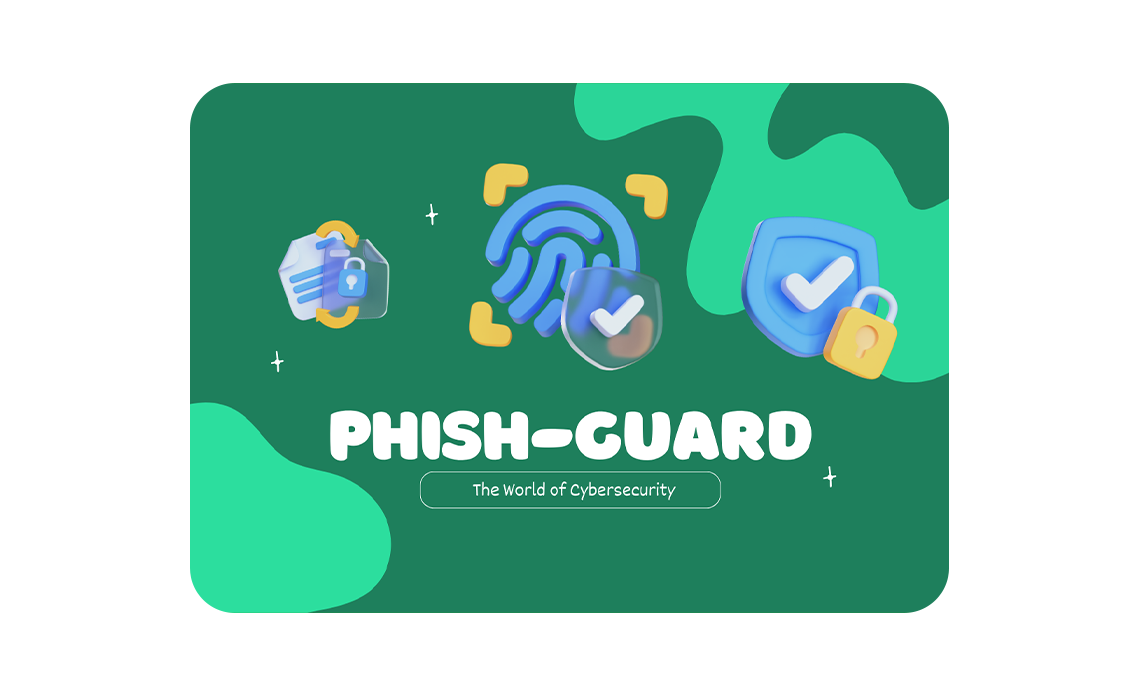
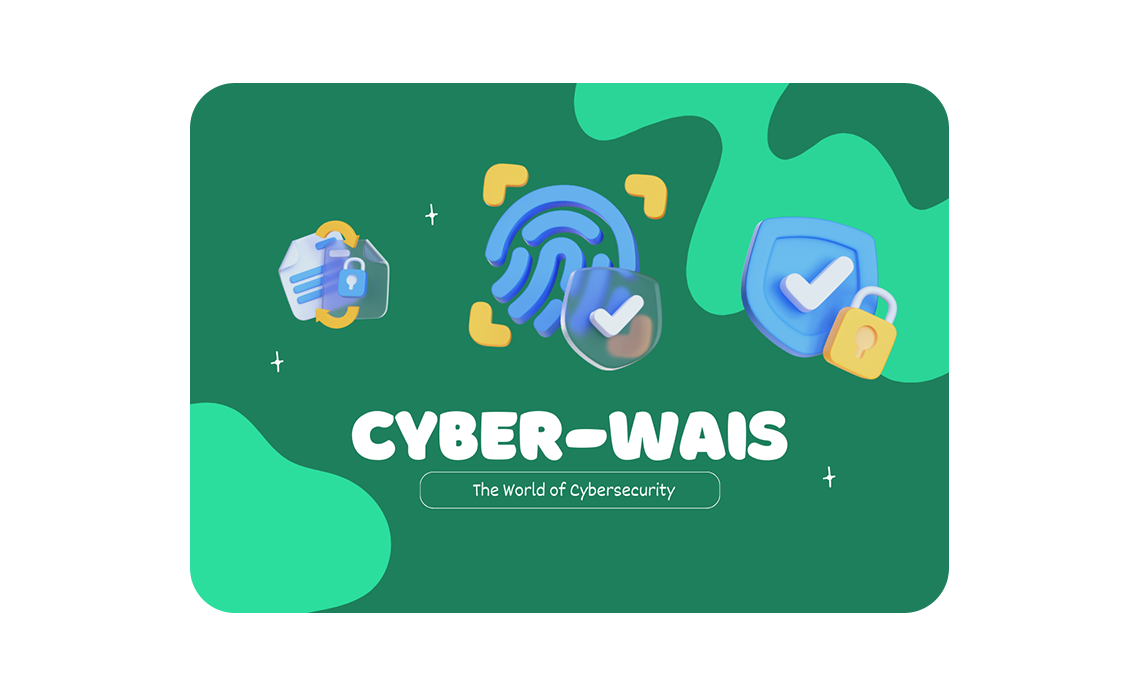
-renamed everything to CyberWais -finished the sign-up process

Changed region(s): [[0.2763, 0.5741, 0.7368, 0.6647], [0.3991, 0.695, 0.5833, 0.7252], [0.7675, 0.423, 0.7982, 0.4835]]

diff --git a/resources/views/landing/index.blade.php b/resources/views/landing/index.blade.php
@@ -11,7 +11,7 @@
     <meta name="viewport" content="width=device-width, initial-scale=1.0, user-scalable=no, minimum-scale=1.0, maximum-scale=1.0" />
     <meta name="robots" content="noindex, nofollow" />
 
-    <title>PhishGuard</title>
+    <title>CyberWais</title>
     
     <!-- Favicon -->
     <link rel="icon" type="image/x-icon" href="{{ asset('img/logo/logo-white-bg.png') }}" />
@@ -70,7 +70,7 @@
           <span class="">
             <img src="{{ asset('img/landing/logo.png') }}" alt="" style="width: 40px; height: auto; max-width: 100%;">
           </span>
-          <span class="app-brand-text demo menu-text fw-bold ms-2 ps-1">PhishGuard</span>
+          <span class="app-brand-text demo menu-text fw-bold ms-2 ps-1">CyberWais</span>
         </a>
       </div>
       <!-- Menu logo wrapper: End -->
@@ -325,7 +325,7 @@
       </span>
     </h4>
     <p class="text-center mb-12 pb-md-4">
-      Browse through these FAQs to learn more about PhishGuard and how our cybersecurity learning platform works.
+      Browse through these FAQs to learn more about CyberWais and how our cybersecurity learning platform works.
     </p>
 
     <div class="row gy-12 align-items-center">
@@ -342,12 +342,12 @@
           <div class="card accordion-item">
             <h2 class="accordion-header" id="headingOne">
               <button type="button" class="accordion-button collapsed" data-bs-toggle="collapse" data-bs-target="#accordionOne">
-                What cybersecurity topics are covered in PhishGuard?
+                What cybersecurity topics are covered in CyberWais?
               </button>
             </h2>
             <div id="accordionOne" class="accordion-collapse collapse">
               <div class="accordion-body">
-                PhishGuard covers essential and practical cybersecurity topics such as phishing detection and prevention, email security, password hygiene and multi-factor authentication (MFA), social engineering awareness, malware basics, safe internet browsing, data privacy, and incident response fundamentals.  
+                CyberWais covers essential and practical cybersecurity topics such as phishing detection and prevention, email security, password hygiene and multi-factor authentication (MFA), social engineering awareness, malware basics, safe internet browsing, data privacy, and incident response fundamentals.  
                 Our content is designed for beginners, students, employees, and aspiring cybersecurity professionals through interactive lessons, simulations, quizzes, and real-world scenarios.
               </div>
             </div>
@@ -363,7 +363,7 @@
             <div id="accordionTwo" class="accordion-collapse collapse">
               <div class="accordion-body">
                 Course duration varies depending on the topic. Short awareness modules can be completed in 20–30 minutes, while full learning paths or certification-style tracks may take 4–8 weeks.  
-                PhishGuard is fully self-paced, allowing learners to study anytime and progress based on their own schedule.
+                CyberWais is fully self-paced, allowing learners to study anytime and progress based on their own schedule.
               </div>
             </div>
           </div>
@@ -372,12 +372,12 @@
           <div class="card accordion-item active">
             <h2 class="accordion-header" id="headingThree">
               <button type="button" class="accordion-button collapsed" data-bs-toggle="collapse" data-bs-target="#accordionThree">
-                Who is PhishGuard for?
+                Who is CyberWais for?
               </button>
             </h2>
             <div id="accordionThree" class="accordion-collapse collapse">
               <div class="accordion-body">
-                PhishGuard is designed for students, professionals, educators, and organizations that want to improve cybersecurity awareness and defensive skills. Whether you are a beginner learning online safety or an organization training staff against phishing attacks, PhishGuard adapts to different skill levels and learning goals.
+                CyberWais is designed for students, professionals, educators, and organizations that want to improve cybersecurity awareness and defensive skills. Whether you are a beginner learning online safety or an organization training staff against phishing attacks, CyberWais adapts to different skill levels and learning goals.
               </div>
             </div>
           </div>
@@ -391,7 +391,7 @@
             </h2>
             <div id="accordionFour" class="accordion-collapse collapse">
               <div class="accordion-body">
-                No prior cybersecurity knowledge is required. PhishGuard starts with fundamentals and gradually introduces more advanced concepts. Each course clearly indicates its difficulty level so learners can choose content appropriate to their background.
+                No prior cybersecurity knowledge is required. CyberWais starts with fundamentals and gradually introduces more advanced concepts. Each course clearly indicates its difficulty level so learners can choose content appropriate to their background.
               </div>
             </div>
           </div>
@@ -400,12 +400,12 @@
           <div class="card accordion-item">
             <h2 class="accordion-header" id="headingFive">
               <button type="button" class="accordion-button collapsed" data-bs-toggle="collapse" data-bs-target="#accordionFive">
-                Can I access PhishGuard on any device?
+                Can I access CyberWais on any device?
               </button>
             </h2>
             <div id="accordionFive" class="accordion-collapse collapse">
               <div class="accordion-body">
-                Yes. PhishGuard is a web-based learning platform that works on desktops, laptops, tablets, and mobile devices. All you need is a modern browser and an internet connection to access courses, quizzes, and interactive labs.
+                Yes. CyberWais is a web-based learning platform that works on desktops, laptops, tablets, and mobile devices. All you need is a modern browser and an internet connection to access courses, quizzes, and interactive labs.
               </div>
             </div>
           </div>
@@ -434,7 +434,7 @@
             document.write(new Date().getFullYear());
           </script>
         </span>
-        <a href="{{ route('landing.index') }}" class="text-white">PhishGuard,</a>
+        <a href="{{ route('landing.index') }}" class="text-white">CyberWais,</a>
         <span class="footer-bottom-text"> Made with passion for learning.</span>
       </div>
       <div>

diff --git a/resources/views/auth/sign-up.blade.php b/resources/views/auth/sign-up.blade.php
@@ -11,7 +11,7 @@
     <meta name="viewport" content="width=device-width, initial-scale=1.0, user-scalable=no, minimum-scale=1.0, maximum-scale=1.0" />
     <meta name="robots" content="noindex, nofollow" />
 
-      <title>PhishGuard - Login</title>
+      <title>CyberWais - Login</title>
     
     <!-- Favicon -->
     <link rel="icon" type="image/x-icon" href="{{ asset('img/logo/logo-white-bg.png') }}" />
@@ -65,7 +65,7 @@
                   <img src="{{ asset('img/landing/logo.png') }}" alt="" style="width: 40px; height: auto; max-width: 100%;">
                 </span>
       </span>
-      <span class="app-brand-text demo text-heading fw-bold">PhishGuard</span>
+      <span class="app-brand-text demo text-heading fw-bold">CyberWais</span>
     </a>
     <!-- /Logo -->
     <div class="authentication-inner row m-0">
@@ -103,7 +103,7 @@
               </div>
           @endif
 
-          <form id="formAuthentication" method="post" action="" class="mb-6">
+          <form id="formAuthentication" method="post" action="{{ route('auth.create-user') }}" class="mb-6">
               @csrf
 
               <div class="mb-6">
@@ -128,6 +128,14 @@
                 </div>
               </div>
 
+              <div class="mb-6 form-password-toggle">
+                <label for="confirm_password">Confirm password:</label>
+                <div class="input-group input-group-merge">
+                    <input type="password" name="confirm_password" id="confirm_password" class="form-control" placeholder="••••••••••••" aria-describedby="confirm_password" required>
+                    <span class="input-group-text cursor-pointer"><i class="icon-base bx bx-hide"></i></span>
+                </div>
+              </div>
+
               <div class="mb-8">
                   <div class="d-flex justify-content-between">
                       <div class="form-check mb-0">
@@ -137,7 +145,7 @@
                   </div>
               </div>
               <div class="mb-6">
-                  <button class="btn btn-primary d-grid w-100" type="submit">Login</button>
+                  <button class="btn btn-primary d-grid w-100" type="submit">Sign up</button>
               </div>
           </form>
 

diff --git a/resources/views/auth/sign-in.blade.php b/resources/views/auth/sign-in.blade.php
@@ -11,7 +11,7 @@
     <meta name="viewport" content="width=device-width, initial-scale=1.0, user-scalable=no, minimum-scale=1.0, maximum-scale=1.0" />
     <meta name="robots" content="noindex, nofollow" />
 
-      <title>PhishGuard - Login</title>
+      <title>CyberWais - Login</title>
     
     <!-- Favicon -->
     <link rel="icon" type="image/x-icon" href="{{ asset('img/logo/logo-white-bg.png') }}" />
@@ -65,7 +65,7 @@
                   <img src="{{ asset('img/landing/logo.png') }}" alt="" style="width: 40px; height: auto; max-width: 100%;">
                 </span>
       </span>
-      <span class="app-brand-text demo text-heading fw-bold">PhishGuard</span>
+      <span class="app-brand-text demo text-heading fw-bold">CyberWais</span>
     </a>
     <!-- /Logo -->
     <div class="authentication-inner row m-0">
@@ -81,7 +81,7 @@
       <div class="d-flex col-12 col-lg-5 col-xl-4 align-items-center authentication-bg p-sm-12 p-6">
         <div class="w-px-400 mx-auto mt-sm-12 mt-8">
                 <div class="d-flex align-items-center">
-                    <h4 class="mb-1">Welcome to PhishGuard!</h4>
+                    <h4 class="mb-1">Welcome to CyberWais!</h4>
                     <img src="{{ asset('img/auth/hand.gif') }}" id="hand_gif" class="mb-2" alt="">
                 </div>
           <p class="mb-6">Please sign-in to your account and start learning!</p>

diff --git a/resources/views/user/home/lesson/quiz-results.blade.php b/resources/views/user/home/lesson/quiz-results.blade.php
@@ -194,7 +194,7 @@ QUIZ RESULTS - {{ $lesson->title }}
                         <div class="mb-4">
                             <a href="{{ route('lessons.show', Crypt::encryptString($lesson->id)) }}">
                                 <label class="form-check-label ms-4">
-                                    <span class="mb-0 h6 text-primary">1. Lesson</span>
+                                    <span class="mb-0 h6">1. Lesson</span>
                                     <small class="text-body d-block">content</small>
                                 </label>
                             </a>
@@ -203,7 +203,7 @@ QUIZ RESULTS - {{ $lesson->title }}
                             <hr>
                             <div class="mb-4">
                                 <label class="ms-4">
-                                    <span class="mb-0 h6">2. Quiz</span>
+                                    <span class="mb-0 h6 text-primary">2. Quiz</span>
                                     <small class="text-body d-block">assessment</small>
                                 </label>
                             </div>

diff --git a/resources/views/user/home/lesson/quiz.blade.php b/resources/views/user/home/lesson/quiz.blade.php
@@ -165,7 +165,7 @@ QUIZ - {{ $lesson->title }}
                         <div class="mb-4">
                             <a href="{{ route('lessons.show', Crypt::encryptString($lesson->id)) }}">
                                 <label class="form-check-label ms-4">
-                                    <span class="mb-0 h6 text-primary">1. Lesson</span>
+                                    <span class="mb-0 h6">1. Lesson</span>
                                     <small class="text-body d-block">content</small>
                                 </label>
                             </a>
@@ -174,7 +174,7 @@ QUIZ - {{ $lesson->title }}
                             <hr>
                             <div class="mb-4">
                                 <label class="ms-4">
-                                    <span class="mb-0 h6">2. Quiz</span>
+                                    <span class="mb-0 h6 text-primary">2. Quiz</span>
                                     <small class="text-body d-block">assessment</small>
                                 </label>
                             </div>

diff --git a/app/Http/Controllers/Auth/AuthController.php b/app/Http/Controllers/Auth/AuthController.php
@@ -63,8 +63,8 @@ class AuthController extends Controller
             'first_name' => 'required|string|max:255',
             'last_name' => 'required|string|max:255',
             'email' => 'required|string|email|max:255|unique:users',
-            'confirm_password' => 'required|string|min:8',
-            'password' => 'required|string|min:8',
+            'confirm_password' => 'required|string|min:6',
+            'password' => 'required|string|min:6',
         ]);
 
         if ($validated['password'] !== $validated['confirm_password']) {

diff --git a/resources/views/admin/layout/sidebar/bar.blade.php b/resources/views/admin/layout/sidebar/bar.blade.php
@@ -12,7 +12,7 @@
         <span class="mt-0">
             <img src="{{ asset('img/landing/logo.png') }}" alt="" class="mt-0" style="width: 40px; height: auto; max-width: 100%;">
         </span>
-        <span class="app-brand-text demo text-dark menu-text fw-bold ms-1 ps-1 mt-0">PhishGuard</span>
+        <span class="app-brand-text demo text-dark menu-text fw-bold ms-1 ps-1 mt-0">CyberWais</span>
         </a>
     </div>
 

diff --git a/routes/web.php b/routes/web.php
@@ -26,6 +26,7 @@ Route::prefix('auth')->name('auth.')->group(function () {
     Route::post('login', [AuthController::class, 'authenticate'])->name('authenticate');
 
     Route::get('sign-up', [AuthController::class, 'signup'])->name('sign-up');
+    Route::post('create-user', [AuthController::class, 'store'])->name('create-user');
 
     Route::get('logout', [AuthController::class, 'logout'])->name('logout');
 });

diff --git a/resources/views/user/layout/base.blade.php b/resources/views/user/layout/base.blade.php
@@ -78,7 +78,7 @@
       <span class="">
         <img src="{{ asset('img/landing/logo.png') }}" alt="" style="width: 40px; height: auto; max-width: 100%;">
       </span>
-      <span class="app-brand-text demo text-dark menu-text fw-bold ms-2 ps-1">PhishGuard</span>
+      <span class="app-brand-text demo text-dark menu-text fw-bold ms-2 ps-1">CyberWais</span>
     </a>
 
   </div>
